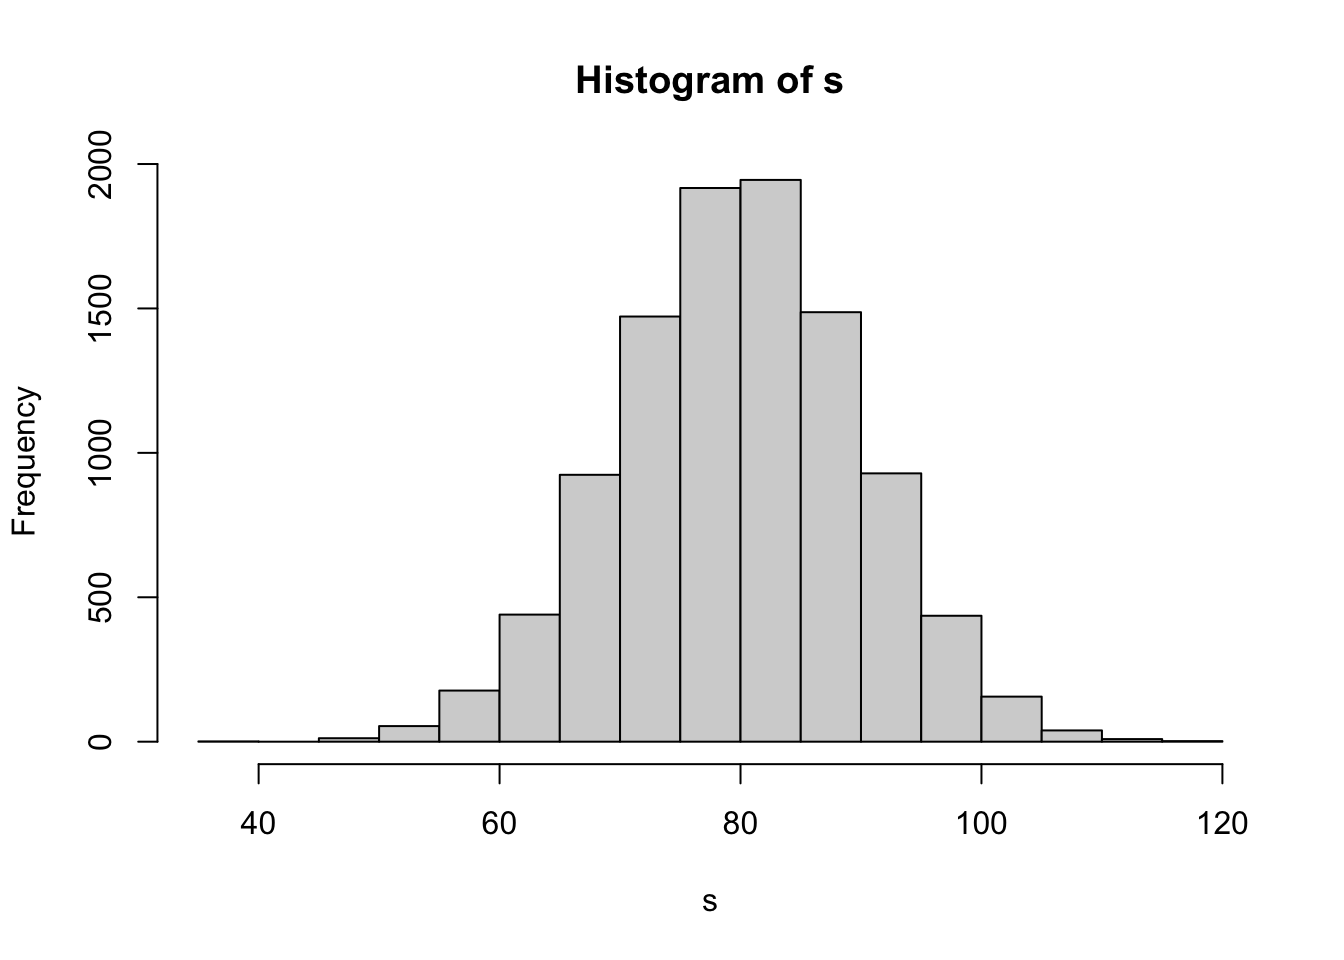
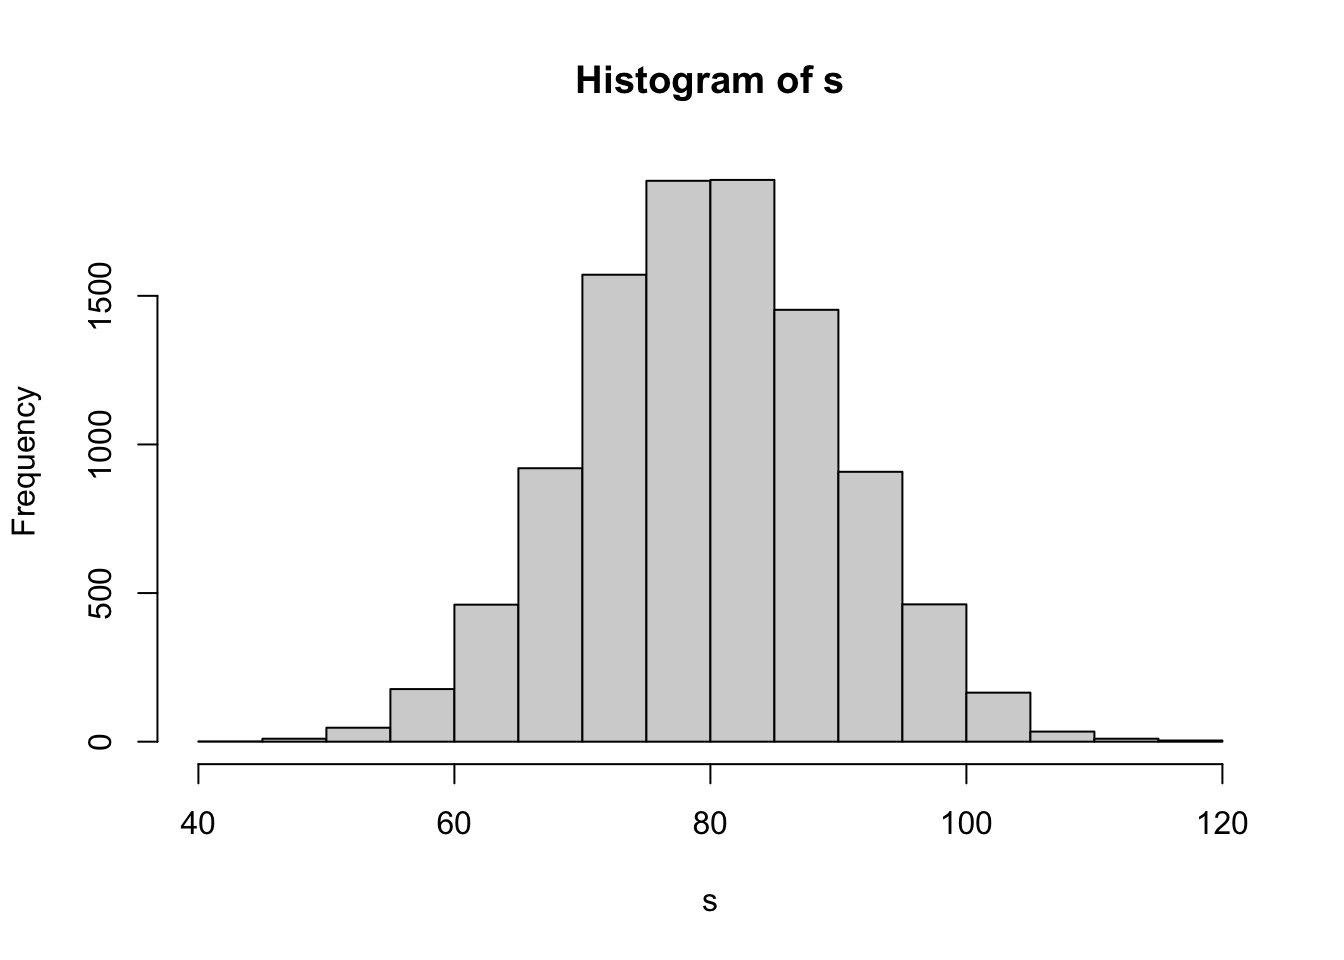
commit

diff --git a/docs/exercise-01.html b/docs/exercise-01.html
@@ -290,7 +290,7 @@ pre > code.sourceCode > span > a:first-child::before { text-decoration: underlin
 <li>Introducing the {tidyverse} and the pipe <code>%&gt;%</code> operator</li>
 </ul>
 <blockquote class="blockquote">
-<p><strong>NOTE:</strong> For both of the approaches below, before using Google’s gmail server to send emails, there seems to be a key Gmail account setting that has to be changed from the default value: you have to allow “Less Secure Apps” to use your the Gmail account. Details on this setting and on how to make this change can be found as <a href="https://support.google.com/accounts/answer/6010255?hl=en">this link</a></p>
+<p><strong>NOTE:</strong> For both of the approaches below, before using Google’s gmail server to send emails, a key Gmail account setting that has to be changed from the default value: you have to have 2-factor authorization established for your account and you will need to set up an “app password”. We can go over this process in class.</p>
 </blockquote>
 </section>
 <section id="version-1-using-the-emayaili-package" class="level2 unnumbered">
@@ -356,18 +356,24 @@ pre > code.sourceCode > span > a:first-child::before { text-decoration: underlin
 </ul>
 <p>This function takes several intuitive arguments that we can assign values to directly within the function.</p>
 <div class="cell">
-<div class="sourceCode cell-code" id="cb5"><pre class="sourceCode r code-with-copy"><code class="sourceCode r"><span id="cb5-1"><a href="#cb5-1" aria-hidden="true" tabindex="-1"></a>message <span class="ot">&lt;-</span> <span class="fu">envelope</span>(</span>
+<div class="sourceCode cell-code" id="cb5"><pre class="sourceCode r code-with-copy"><code class="sourceCode r"><span id="cb5-1"><a href="#cb5-1" aria-hidden="true" tabindex="-1"></a>message_gmail <span class="ot">&lt;-</span> <span class="fu">envelope</span>(</span>
 <span id="cb5-2"><a href="#cb5-2" aria-hidden="true" tabindex="-1"></a>  <span class="at">from =</span> <span class="st">"anthony.difiore@gmail.com"</span>,</span>
 <span id="cb5-3"><a href="#cb5-3" aria-hidden="true" tabindex="-1"></a>  <span class="at">to =</span> <span class="fu">c</span>(<span class="st">"anthony.difiore@gmail.com"</span>, <span class="st">"anthony.difiore@austin.utexas.edu"</span>),</span>
 <span id="cb5-4"><a href="#cb5-4" aria-hidden="true" tabindex="-1"></a>  <span class="at">subject =</span> <span class="st">"Sending a message using {emayili}..."</span>,</span>
-<span id="cb5-5"><a href="#cb5-5" aria-hidden="true" tabindex="-1"></a>  <span class="at">text =</span> <span class="st">"Hello! This is a plain text message."</span>)</span></code><button title="Copy to Clipboard" class="code-copy-button"><i class="bi"></i></button></pre></div>
+<span id="cb5-5"><a href="#cb5-5" aria-hidden="true" tabindex="-1"></a>  <span class="at">text =</span> <span class="st">"Hello! This is a plain text message."</span>)</span>
+<span id="cb5-6"><a href="#cb5-6" aria-hidden="true" tabindex="-1"></a></span>
+<span id="cb5-7"><a href="#cb5-7" aria-hidden="true" tabindex="-1"></a>message_outlook365 <span class="ot">&lt;-</span> <span class="fu">envelope</span>(</span>
+<span id="cb5-8"><a href="#cb5-8" aria-hidden="true" tabindex="-1"></a>  <span class="at">from =</span> <span class="st">"anthony.difiore@austin.utexas.edu"</span>,</span>
+<span id="cb5-9"><a href="#cb5-9" aria-hidden="true" tabindex="-1"></a>  <span class="at">to =</span> <span class="fu">c</span>(<span class="st">"anthony.difiore@gmail.com"</span>, <span class="st">"anthony.difiore@austin.utexas.edu"</span>),</span>
+<span id="cb5-10"><a href="#cb5-10" aria-hidden="true" tabindex="-1"></a>  <span class="at">subject =</span> <span class="st">"Sending a message using {emayili}..."</span>,</span>
+<span id="cb5-11"><a href="#cb5-11" aria-hidden="true" tabindex="-1"></a>  <span class="at">text =</span> <span class="st">"Hello! This is a plain text message."</span>)</span></code><button title="Copy to Clipboard" class="code-copy-button"><i class="bi"></i></button></pre></div>
 </div>
 <blockquote class="blockquote">
 <p><strong>NOTE:</strong> <strong><em>R</em></strong> essentially ignores whitespace (spaces and tab characters) and also allows you to run code from one line to the next. It is even pretty forgiving about where you put carriage returns, although it is good form to place them following a “,” or before/after a parenthesis or brace.</p>
 </blockquote>
 <p>Using {tidyverse} syntax, we can set up the same email as follows:</p>
 <div class="cell">
-<div class="sourceCode cell-code" id="cb6"><pre class="sourceCode r code-with-copy"><code class="sourceCode r"><span id="cb6-1"><a href="#cb6-1" aria-hidden="true" tabindex="-1"></a>message <span class="ot">&lt;-</span> <span class="fu">envelope</span>() <span class="sc">%&gt;%</span></span>
+<div class="sourceCode cell-code" id="cb6"><pre class="sourceCode r code-with-copy"><code class="sourceCode r"><span id="cb6-1"><a href="#cb6-1" aria-hidden="true" tabindex="-1"></a>message_gmail <span class="ot">&lt;-</span> <span class="fu">envelope</span>() <span class="sc">%&gt;%</span></span>
 <span id="cb6-2"><a href="#cb6-2" aria-hidden="true" tabindex="-1"></a>  <span class="fu">from</span>(<span class="st">"anthony.difiore@gmail.com"</span>) <span class="sc">%&gt;%</span></span>
 <span id="cb6-3"><a href="#cb6-3" aria-hidden="true" tabindex="-1"></a>  <span class="fu">to</span>(<span class="fu">c</span>(<span class="st">"anthony.difiore@gmail.com"</span>, <span class="st">"anthony.difiore@austin.utexas.edu"</span>)) <span class="sc">%&gt;%</span></span>
 <span id="cb6-4"><a href="#cb6-4" aria-hidden="true" tabindex="-1"></a>  <span class="fu">subject</span>(<span class="st">"Sending a message using {emayili}..."</span>) <span class="sc">%&gt;%</span></span>
@@ -381,11 +387,17 @@ pre > code.sourceCode > span > a:first-child::before { text-decoration: underlin
 <li>Create an SMTP (or “Simple Mail Transfer Protocol”) “server” object with details about how to send a message</li>
 </ul>
 <div class="cell">
-<div class="sourceCode cell-code" id="cb7"><pre class="sourceCode r code-with-copy"><code class="sourceCode r"><span id="cb7-1"><a href="#cb7-1" aria-hidden="true" tabindex="-1"></a>smtp <span class="ot">&lt;-</span> <span class="fu">server</span>(</span>
+<div class="sourceCode cell-code" id="cb7"><pre class="sourceCode r code-with-copy"><code class="sourceCode r"><span id="cb7-1"><a href="#cb7-1" aria-hidden="true" tabindex="-1"></a>smtp_gmail <span class="ot">&lt;-</span> <span class="fu">server</span>(</span>
 <span id="cb7-2"><a href="#cb7-2" aria-hidden="true" tabindex="-1"></a>  <span class="at">host =</span> <span class="st">"smtp.gmail.com"</span>,</span>
 <span id="cb7-3"><a href="#cb7-3" aria-hidden="true" tabindex="-1"></a>  <span class="at">port =</span> <span class="dv">465</span>,</span>
 <span id="cb7-4"><a href="#cb7-4" aria-hidden="true" tabindex="-1"></a>  <span class="at">username =</span> <span class="st">"anthony.difiore@gmail.com"</span>,</span>
-<span id="cb7-5"><a href="#cb7-5" aria-hidden="true" tabindex="-1"></a>  <span class="at">password =</span> <span class="st">""</span>) <span class="co"># add your password between quotation marks here</span></span></code><button title="Copy to Clipboard" class="code-copy-button"><i class="bi"></i></button></pre></div>
+<span id="cb7-5"><a href="#cb7-5" aria-hidden="true" tabindex="-1"></a>  <span class="at">password =</span> <span class="st">""</span>) <span class="co"># add your Google account app password between quotation marks here</span></span>
+<span id="cb7-6"><a href="#cb7-6" aria-hidden="true" tabindex="-1"></a></span>
+<span id="cb7-7"><a href="#cb7-7" aria-hidden="true" tabindex="-1"></a>smtp_outlook365 <span class="ot">&lt;-</span> <span class="fu">server</span>(</span>
+<span id="cb7-8"><a href="#cb7-8" aria-hidden="true" tabindex="-1"></a>  <span class="at">host =</span> <span class="st">"smtp.office365.com"</span>,</span>
+<span id="cb7-9"><a href="#cb7-9" aria-hidden="true" tabindex="-1"></a>  <span class="at">port =</span> <span class="dv">587</span>,</span>
+<span id="cb7-10"><a href="#cb7-10" aria-hidden="true" tabindex="-1"></a>  <span class="at">username =</span> <span class="st">"anthony.difiore@austin.utexas.edu"</span>,</span>
+<span id="cb7-11"><a href="#cb7-11" aria-hidden="true" tabindex="-1"></a>  <span class="at">password =</span> <span class="st">""</span>)  <span class="co"># add your UT email password between quotation marks here</span></span></code><button title="Copy to Clipboard" class="code-copy-button"><i class="bi"></i></button></pre></div>
 </div>
 </section>
 <section id="step-5" class="level4 unnumbered">
@@ -394,8 +406,8 @@ pre > code.sourceCode > span > a:first-child::before { text-decoration: underlin
 <li>Send your message by passing it as an argument to the server object. Then, CHECK YOUR EMAIL to confirm that you receive the message.</li>
 </ul>
 <div class="cell">
-<div class="sourceCode cell-code" id="cb8"><pre class="sourceCode r code-with-copy"><code class="sourceCode r"><span id="cb8-1"><a href="#cb8-1" aria-hidden="true" tabindex="-1"></a><span class="fu">smtp</span>(message, <span class="at">verbose =</span> <span class="cn">TRUE</span>)</span>
-<span id="cb8-2"><a href="#cb8-2" aria-hidden="true" tabindex="-1"></a></span>
+<div class="sourceCode cell-code" id="cb8"><pre class="sourceCode r code-with-copy"><code class="sourceCode r"><span id="cb8-1"><a href="#cb8-1" aria-hidden="true" tabindex="-1"></a><span class="fu">smtp_gmail</span>(message_gmail, <span class="at">verbose =</span> <span class="cn">TRUE</span>)</span>
+<span id="cb8-2"><a href="#cb8-2" aria-hidden="true" tabindex="-1"></a><span class="fu">smtp_outlook365</span>(message_outlook365, <span class="at">verbose =</span> <span class="cn">TRUE</span>)</span>
 <span id="cb8-3"><a href="#cb8-3" aria-hidden="true" tabindex="-1"></a><span class="co"># </span><span class="al">NOTE</span><span class="co">: setting verbose = FALSE (or omitting the argument) will suppress output to the console</span></span></code><button title="Copy to Clipboard" class="code-copy-button"><i class="bi"></i></button></pre></div>
 </div>
 </section>

diff --git a/docs/04-module.html b/docs/04-module.html
@@ -640,11 +640,11 @@ length</code></pre>
 <div class="cell">
 <div class="sourceCode cell-code" id="cb82"><pre class="sourceCode r code-with-copy"><code class="sourceCode r"><span id="cb82-1"><a href="#cb82-1" aria-hidden="true" tabindex="-1"></a><span class="fu">mean</span>(s)</span></code><button title="Copy to Clipboard" class="code-copy-button"><i class="bi"></i></button></pre></div>
 <div class="cell-output cell-output-stdout">
-<pre><code>[1] 79.89824</code></pre>
+<pre><code>[1] 79.86732</code></pre>
 </div>
 <div class="sourceCode cell-code" id="cb84"><pre class="sourceCode r code-with-copy"><code class="sourceCode r"><span id="cb84-1"><a href="#cb84-1" aria-hidden="true" tabindex="-1"></a><span class="fu">sd</span>(s)</span></code><button title="Copy to Clipboard" class="code-copy-button"><i class="bi"></i></button></pre></div>
 <div class="cell-output cell-output-stdout">
-<pre><code>[1] 9.977044</code></pre>
+<pre><code>[1] 10.03509</code></pre>
 </div>
 </div>
 </div>

diff --git a/docs/index.html b/docs/index.html
@@ -259,19 +259,6 @@ ul.task-list li input[type="checkbox"] {
 
 </header>
 
-<pre><code>Class Meetings: MON and WED, 2:00-3:30 pm
-Student Hours: MON and WED 4:00-5:00 pm and by appointment</code></pre>
-<p><br></p>
-<div class="cell" data-layout-align="center">
-<div class="cell-output-display">
-<div class="quarto-figure quarto-figure-center">
-<figure class="figure">
-<p><img src="img/confounding_variables_2x.png" class="img-fluid figure-img" style="width:80.0%"></p>
-</figure>
-</div>
-</div>
-</div>
-<p><br></p>
 <section id="overview" class="level1 unnumbered">
 <h1 class="unnumbered">Overview</h1>
 <div class="cell" data-layout-align="center">
